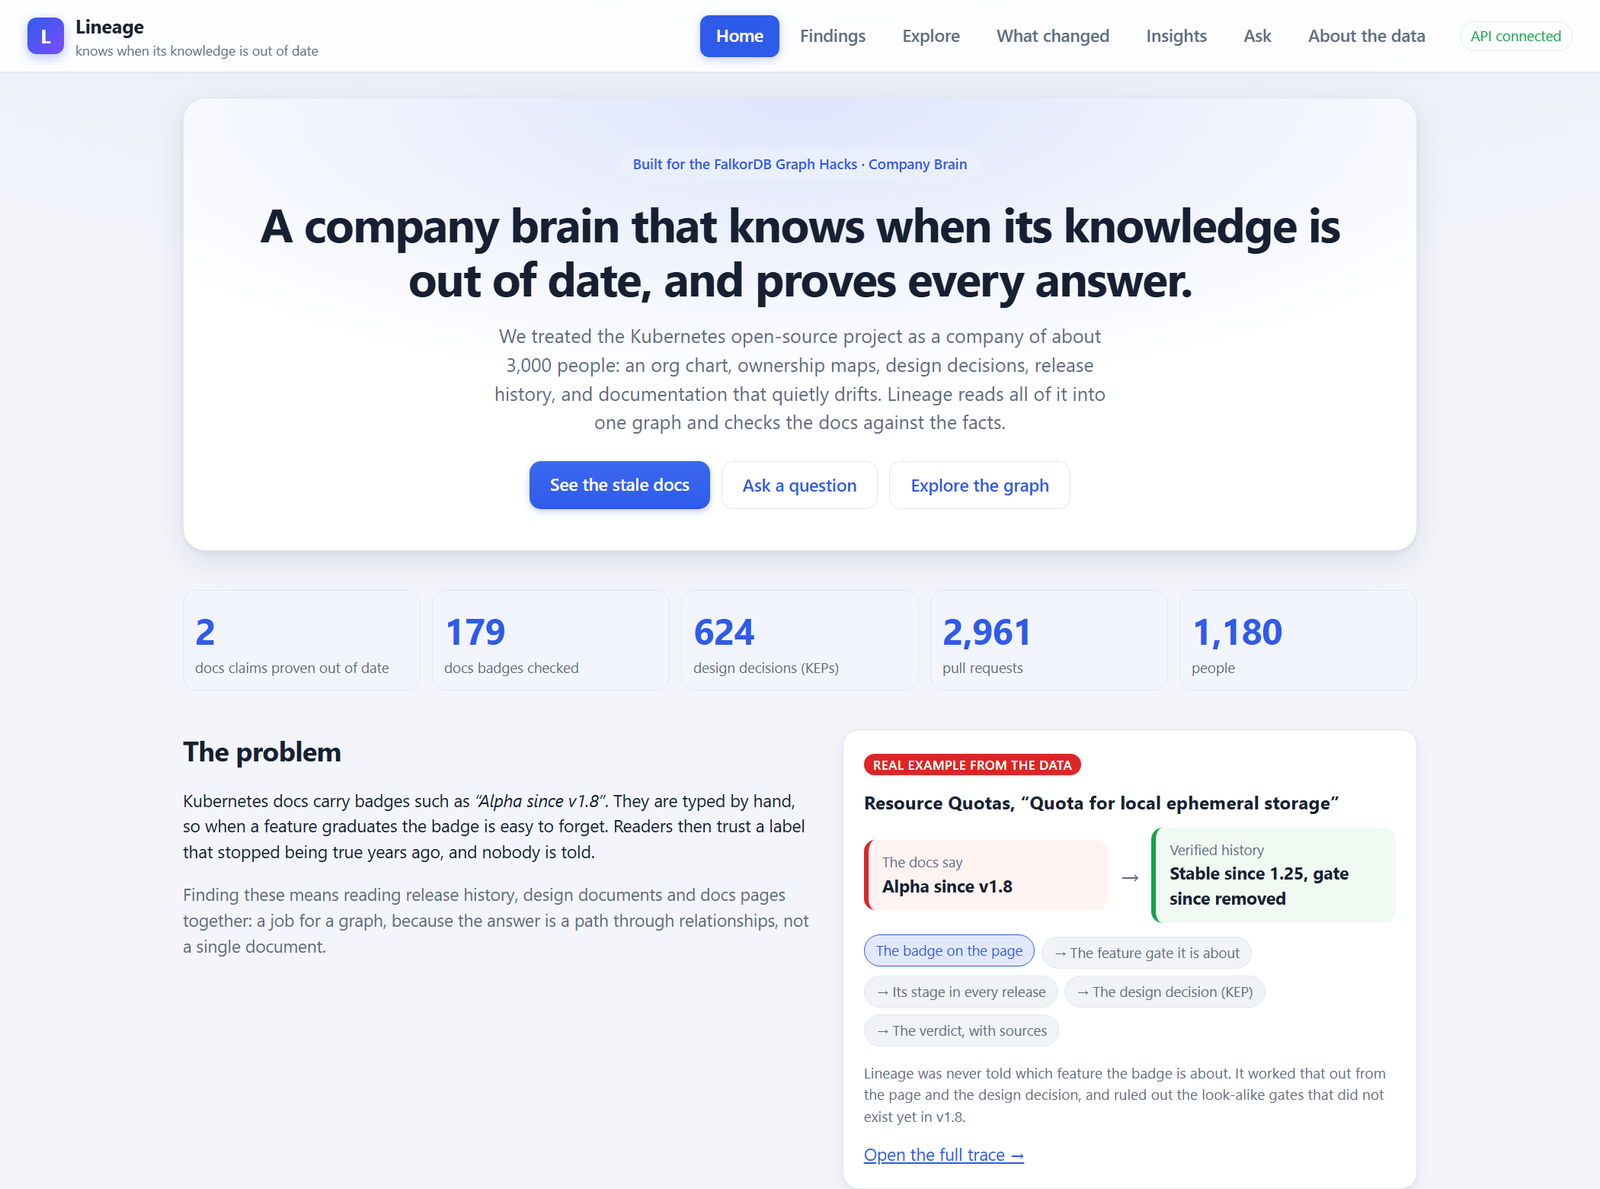
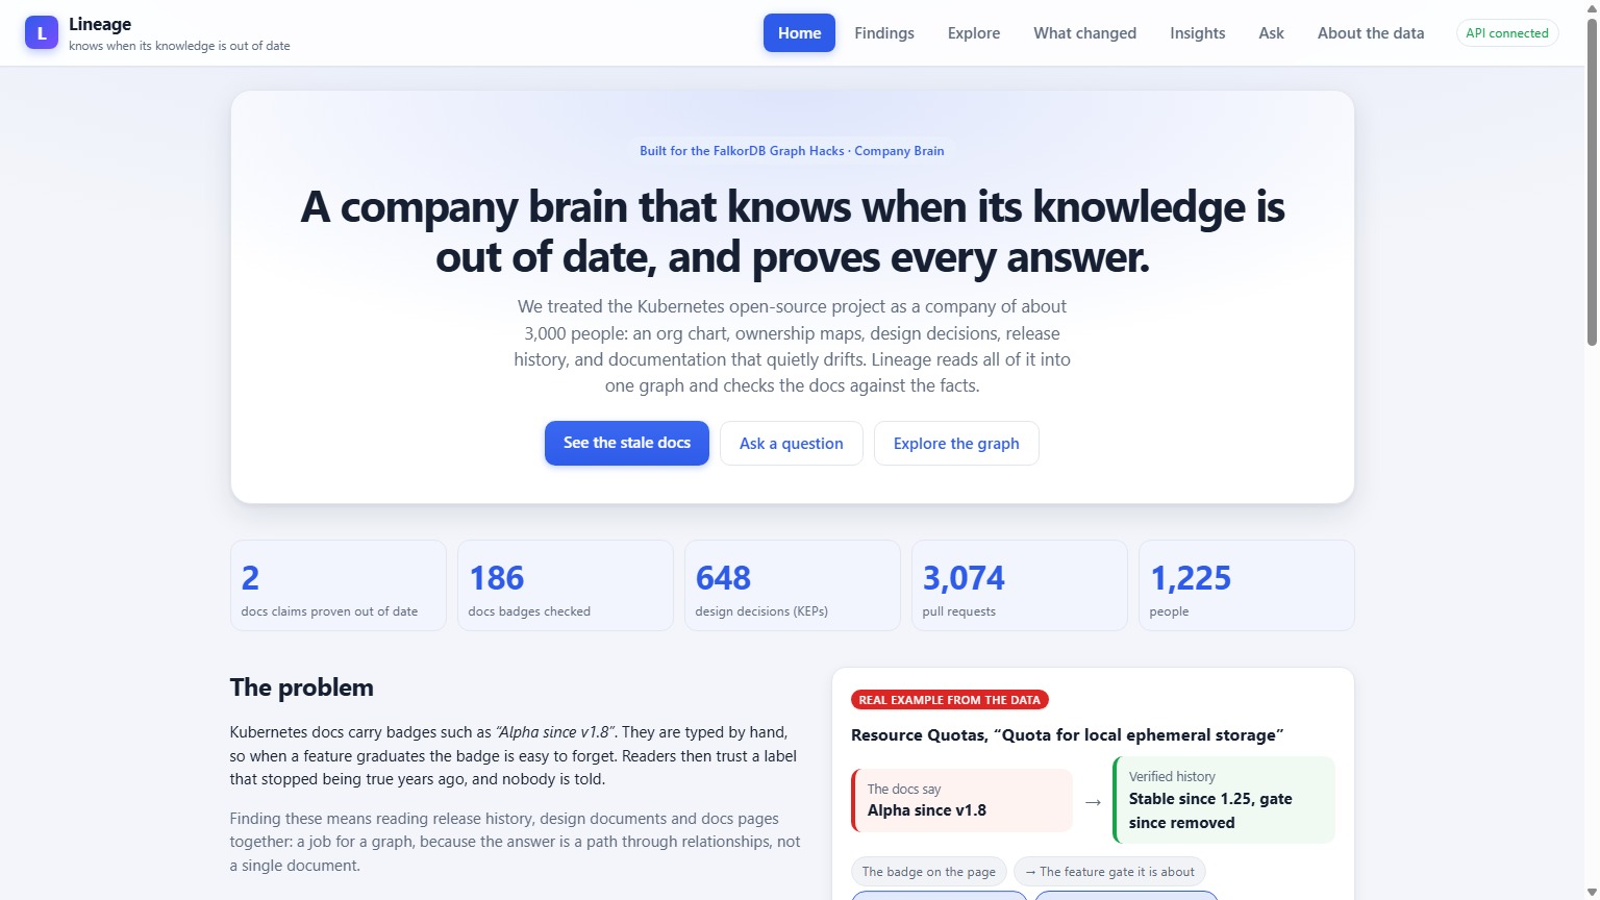
docs: demo video link in the README, blog and app; current FalkorDB captures; fixed screenshots

diff --git a/web/src/HomePage.jsx b/web/src/HomePage.jsx
@@ -69,6 +69,7 @@ export default function HomePage() {
           <a className="btn" href="#/findings">See the stale docs</a>
           <a className="btn ghost" href="#/ask">Ask a question</a>
           <a className="btn ghost" href="#/explore">Explore the graph</a>
+          <a className="btn ghost" href="https://drive.google.com/file/d/1fn5dFY0kjds6lYaK5ZafvDz_pvwJAt41/view?usp=sharing" target="_blank" rel="noreferrer">▶ Watch the demo</a>
         </div>
       </section>
 

diff --git a/DECISIONS.md b/DECISIONS.md
@@ -140,3 +140,4 @@
 2026-10-18 — Explore bug found by the owner: a stale error from an earlier lookup stayed on screen after the Type or Key changed (the box said Release while the red message was about a SIG), and a gate name could be left under Type 'Release'. Fixed: the error clears on any edit, changing the Type fills in an example key for that type (each one verified to resolve), the error says to check the Type, and the API accepts a release written as 1.30 or v1.30 (stored as 130). Tests added.
 2026-10-18 — demo video rebuilt as real motion graphics (not slides): one HTML page that draws every frame as a pure function of time, captured frame by frame through Chrome's debugging protocol by a Node driver run on Windows (the port is not reachable from WSL), 30 fps, then ffmpeg. Narration by Gemini speech (the free tier allows ~10 speech requests per day per model, so three long takes cut into lines at the pauses with a dynamic programme that keeps every line's speaking rate plausible; a style instruction in the text is read aloud, so voices are chosen by name only). Two voices rendered (male Charon, female Sulafat) because the timing of the animation follows the voice. The production folder stays local and git-ignored.
 2026-10-18 — owner asked for Track 1 in the video and a stronger README: the video gained a full Track 1 section built from a REAL agent run (question about the SidecarContainers design decision and the sig-node-approvers alias: two tool calls, decision_lineage 19 rows in 27 ms then team_members 9 rows in 8 ms, answer mrunalp citing e7, e8, e23), the toolbox with the algorithm tools highlighted, an MCP terminal showing tools/list and a real gate_timeline result, a procedural graph bloom, a two-track checklist finale and a held end card (3:46). Narration was regenerated for the new script (31 lines, Gemini speech, male voice Charon). The README opens with a designed banner, an animated hero GIF, a Track 3 / Track 1 map that states its honest gaps, and the real Track 1 example with an agent GIF. The female voice (Sulafat) was rendered for the OLD storyboard only and was not rebuilt for the new one.
+2026-10-18 — video v4 follows the organisers' tip 'demo it working, not slides': the middle is LIVE recordings of the real app (scripted in Chrome through the DevTools protocol, with a visible cursor; the model's real thinking time, 14.5 s, is fast-forwarded and stated on screen), the FalkorDB proof uses the owner's own Browser captures with the current counts (10,245 nodes, 36,956 relationships), one voice model for the whole narration. The Home and Insights screenshots were retaken after their animations finished (the old Home capture showed half-counted numbers). A Medium package (Markdown, paste-ready HTML, numbered images, zip) is generated into the git-ignored blog-medium/ folder.

diff --git a/README.md b/README.md
@@ -1,7 +1,7 @@
 <p align="center"><img src="docs/img/banner.png" alt="Lineage: a company brain that knows when its knowledge is out of date, and proves every answer"></p>
 
 <p align="center">
-<b><a href="https://lineage-faov.onrender.com/">▶ Live demo</a></b> &nbsp;·&nbsp; <b>Demo video:</b> <i>(link added at submission)</i> &nbsp;·&nbsp; <b><a href="docs/BLOG_POST.md">Blog post</a></b> &nbsp;·&nbsp; <b><a href="docs/EXPLAIN_IT.md">Explain it in 10 minutes</a></b>
+<b><a href="https://lineage-faov.onrender.com/">▶ Live demo</a></b> &nbsp;·&nbsp; <b><a href="https://drive.google.com/file/d/1fn5dFY0kjds6lYaK5ZafvDz_pvwJAt41/view?usp=sharing">🎬 Demo video (2:39)</a></b> &nbsp;·&nbsp; <b><a href="docs/BLOG_POST.md">Blog post</a></b> &nbsp;·&nbsp; <b><a href="docs/EXPLAIN_IT.md">Explain it in 10 minutes</a></b>
 </p>
 
 We treat the Kubernetes open-source project as a ~3,000-person company: an org chart, ownership maps, design decisions, release history and documentation that quietly drifts.
@@ -106,7 +106,7 @@ CALL db.idx.vector.queryNodes('Chunk', 'embedding', $k, vecf32($v)) YIELD node, 
 ![The graph data model](docs/img/graph-model.svg)
 
 ![The lineage graph shown in FalkorDB's own Browser: thousands of nodes and relationships](docs/img/falkordb-browser.png)
-*The same graph in FalkorDB's own Browser (an earlier build). Too dense to read, so the Explore page draws it by type.*
+*Our graph in FalkorDB's own Browser (the full local build: 10,245 nodes, 36,956 relationships). Too dense to read, so the Explore page draws it by type.*
 
 ![Architecture](docs/img/architecture.svg)
 
@@ -147,7 +147,7 @@ Full results and everything that makes them softer than they look: [eval/README.
 | README with setup and the graph data model | [Run it](#run-it) and [Graph data model](#graph-data-model) |
 | The Cypher queries and graph algorithms the product depends on | [How FalkorDB is used](#how-falkordb-is-used-take-it-out-and-nothing-works) and [docs/queries.md](docs/queries.md) |
 | Live deployment, or complete local setup | <https://lineage-faov.onrender.com/> and `docker compose up --build` |
-| Demo video | linked at the top |
+| Demo video | [watch it (2:39)](https://drive.google.com/file/d/1fn5dFY0kjds6lYaK5ZafvDz_pvwJAt41/view?usp=sharing): the real app working, live |
 | Tracks entered | **Track 3 (Company Brain)** and **Track 1 (Agents That Act on Connected Data)** |
 | AI use disclosed; we can explain the work | [AI assistance disclosure](#ai-assistance-disclosure), [DECISIONS.md](DECISIONS.md) |
 

diff --git a/docs/BLOG_POST.md b/docs/BLOG_POST.md
@@ -5,7 +5,7 @@
 ### Building Lineage, a company brain on FalkorDB that notices when its own knowledge is out of date, and what an honest 8 out of 15 taught us
 
 *Built for the FalkorDB Graph Hacks, Track 3 (Company Brain) and Track 1 (Agents That Act on Connected Data).*
-*Live demo: https://lineage-faov.onrender.com/ · Code: https://github.com/nandhithr6/Lineage · 4-minute video: (add link)*
+*Live demo: https://lineage-faov.onrender.com/ · Code: https://github.com/nandhithr6/Lineage · Demo video: https://drive.google.com/file/d/1fn5dFY0kjds6lYaK5ZafvDz_pvwJAt41/view?usp=sharing*
 
 **The short version**
 
@@ -45,7 +45,7 @@ No single file holds that answer. It is a *path through relationships*, which is
 All of it lives in one FalkorDB graph: about 6,900 nodes and 30,000 relationships. That is 489 feature gates, 648 design documents, 453 docs badges, 3,074 pull requests and 651 tickets, and 1,225 people.
 
 ![FalkorDB's own Browser showing the lineage graph as a dense network of nodes and relationships](img/falkordb-browser.png)
-*This is our real graph in FalkorDB's own Browser (an earlier, smaller build, before we loaded the pull requests): thousands of nodes and ten thousand relationships. Impressive, and useless to read, which is why the app draws the graph by type.*
+*This is our real graph in FalkorDB's own Browser: 10,245 nodes and 36,956 relationships in the full local build (the hosted demo leaves out the text chunks and is about 6,900 and 30,000). Thousands of nodes and ten thousand relationships on screen is impressive and useless to read, which is why the app draws the graph by type.*
 
 ![The graph data model: nodes and the relationships between them](img/graph-model.png)
 *The data model. Colours match the Explore page in the app.*

diff --git a/docs/VIDEO_PLAN.md b/docs/VIDEO_PLAN.md
@@ -1,5 +1,7 @@
 # Demo video
 
+**Uploaded:** https://drive.google.com/file/d/1fn5dFY0kjds6lYaK5ZafvDz_pvwJAt41/view?usp=sharing
+
 ## The main video: a motion-graphics explainer
 
 The main demo video is a motion-graphics explainer built from the real product screenshots and diagrams (the production files are kept locally and are not part of this repository). It is about 3 minutes, every slide carries a caption so it works **with the sound off**, and it has a narration track (Gemini speech: natural, but still synthetic, so recording your own voice over the captions is the upgrade if you want one). Judges mostly decide from the video first, then the README, so it stands alone: the problem, the idea, the proof, the checks, FalkorDB, the honest numbers, and where to try it.
